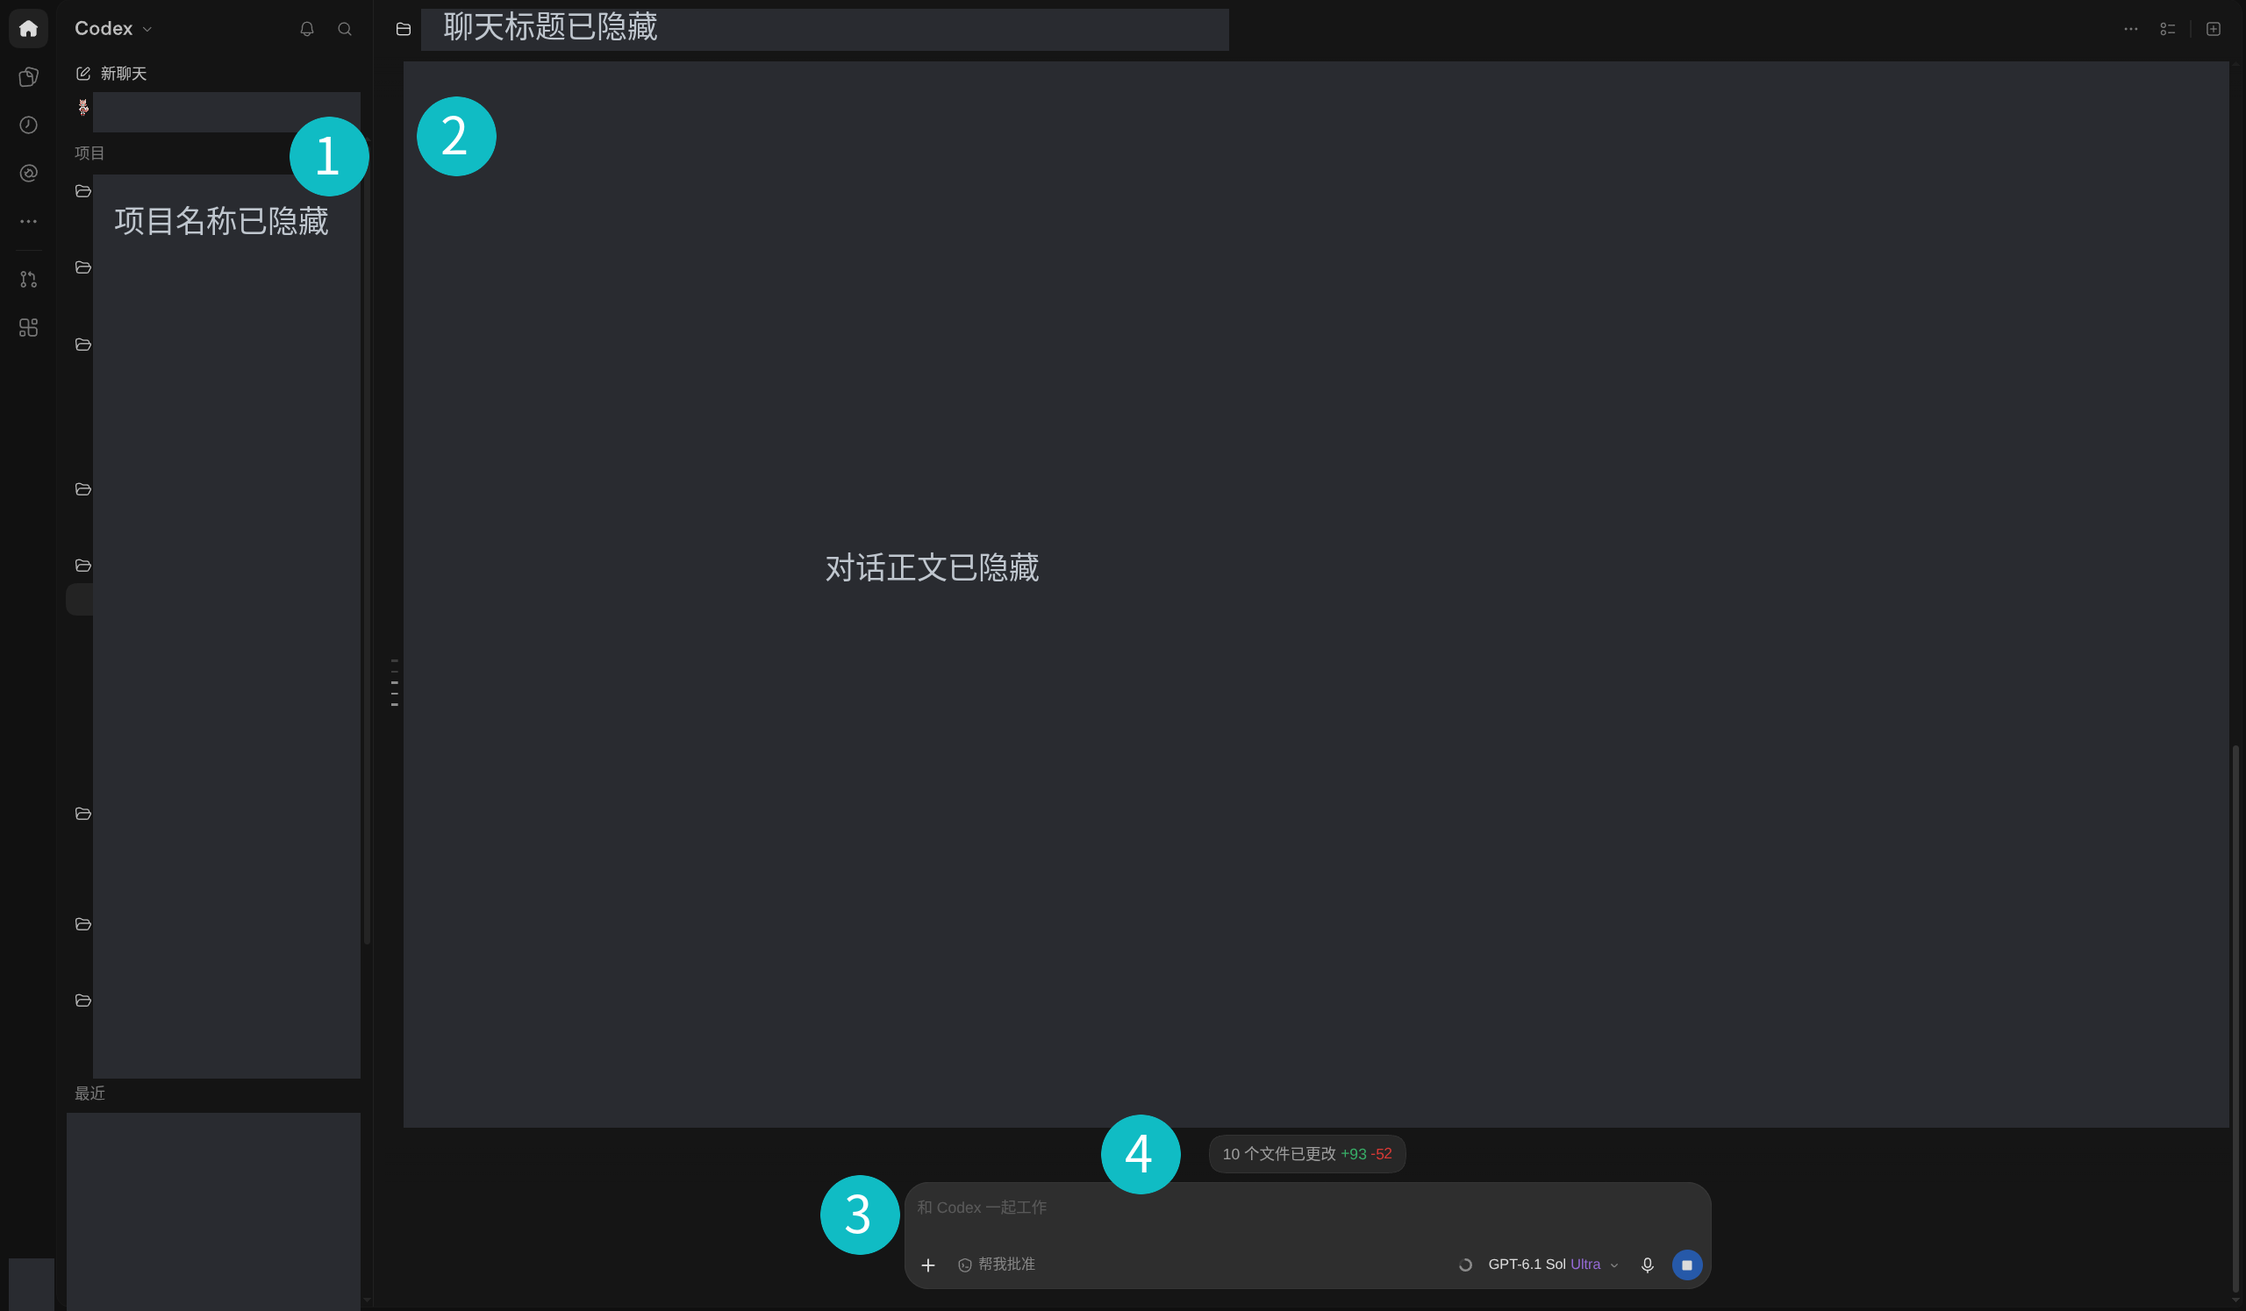
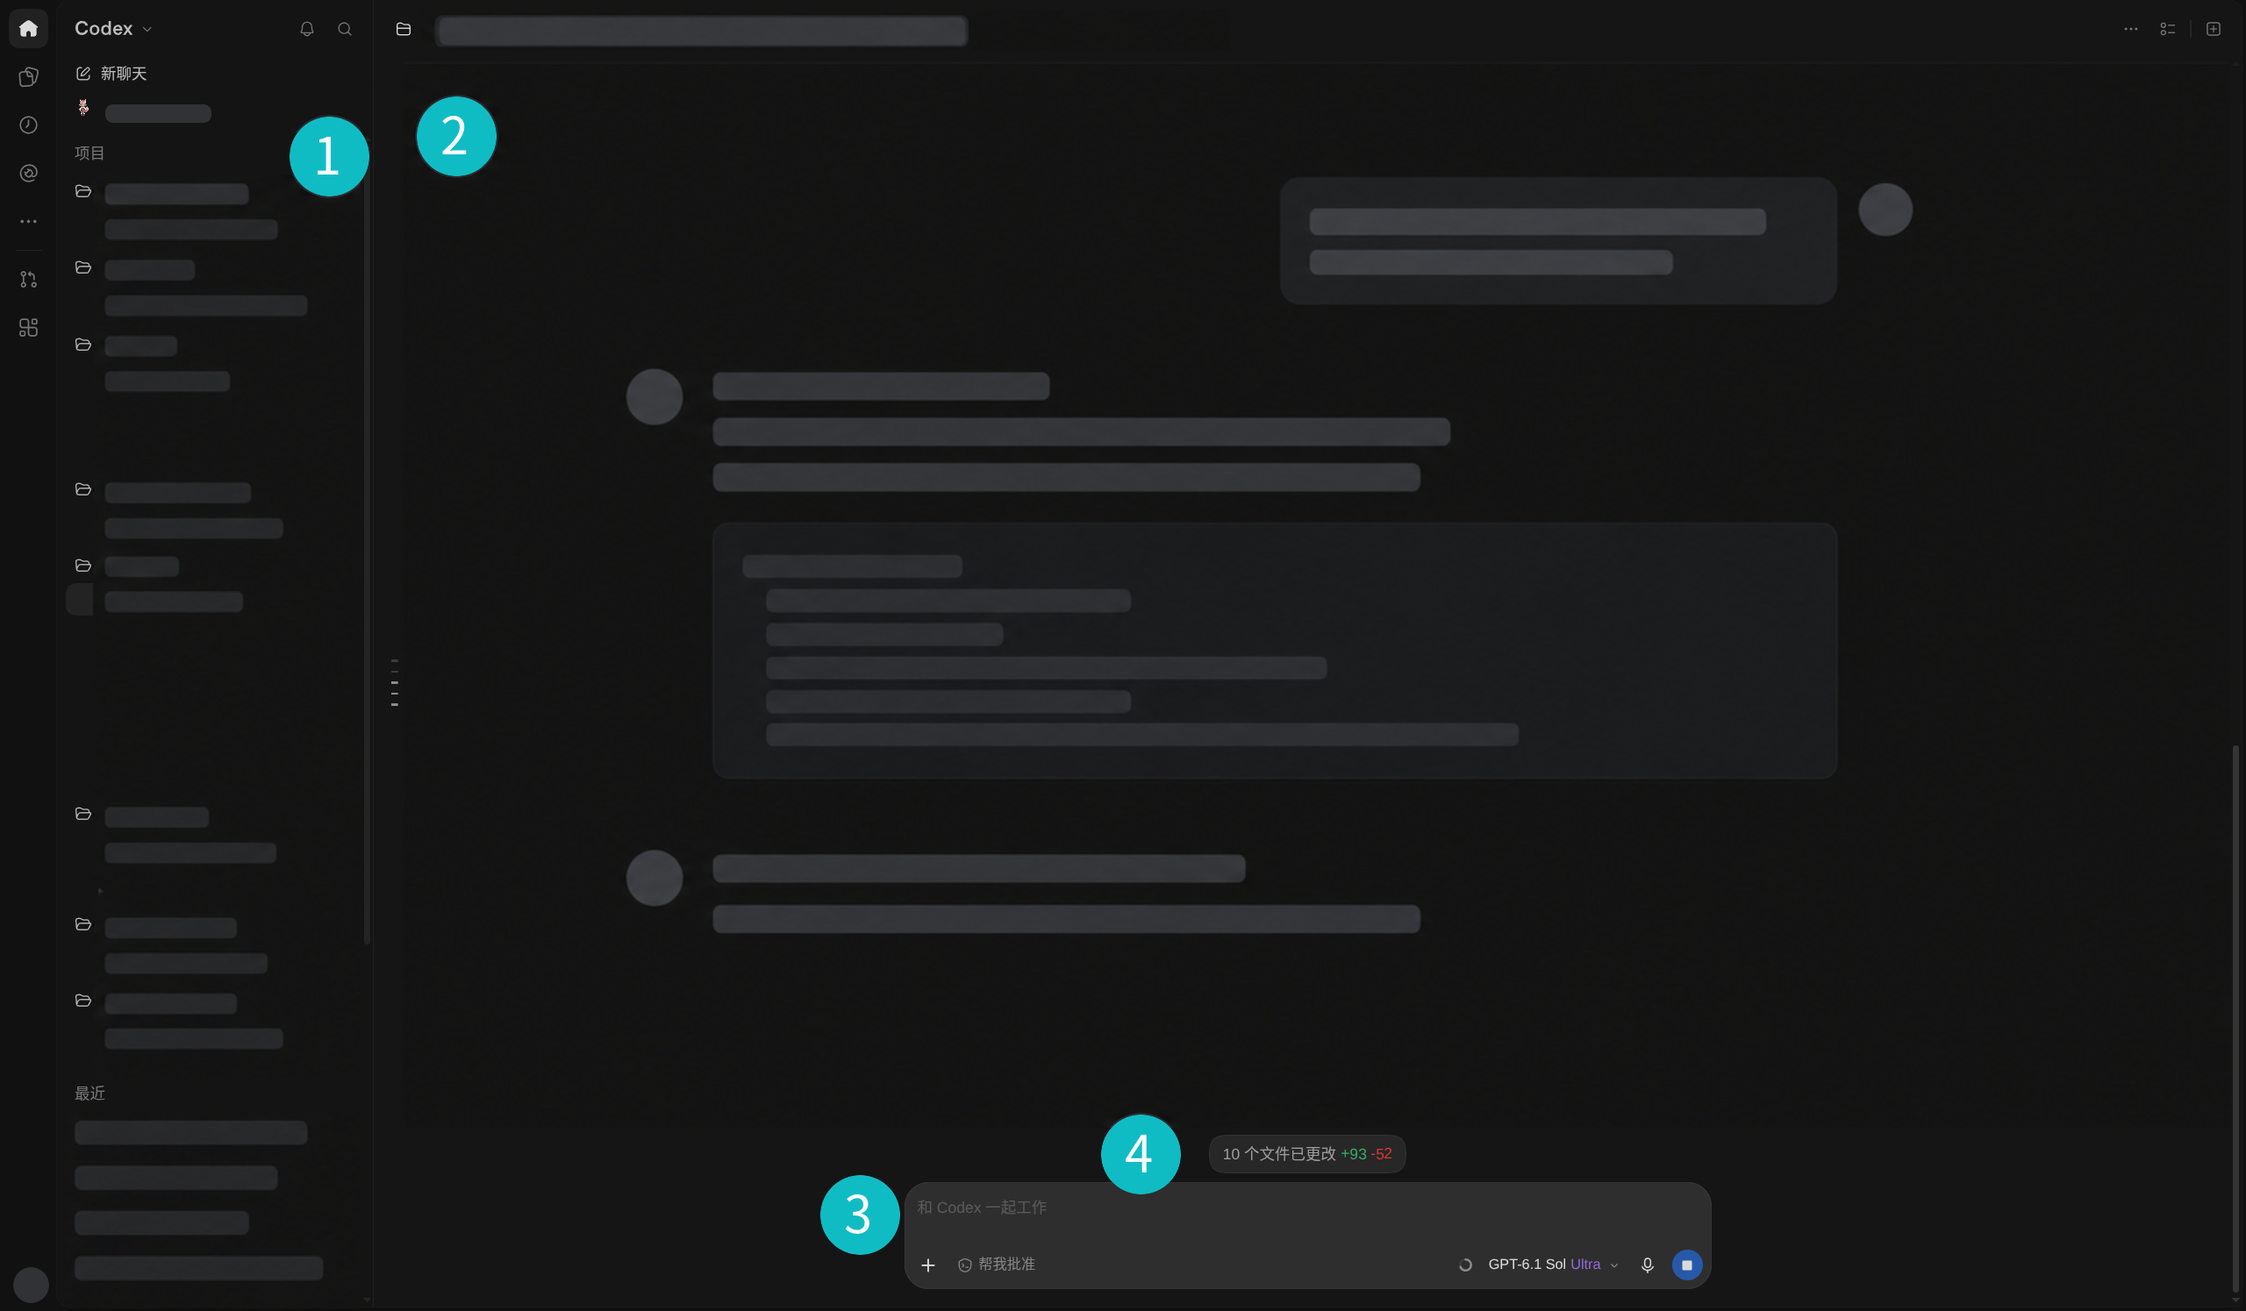
fix: 优化第四章截图骨架脱敏并清理边角残块

diff --git a/docs/revision/volume-1-chapter-4.md b/docs/revision/volume-1-chapter-4.md
@@ -29,7 +29,7 @@
 
 通用化修订的结构、PDF 与视觉检查单列在 [ai-development-generalization-20261031](evidence/ai-development-generalization-20261031/)，初版的页码及 PDF 指纹保留作历史记录。该阶段整卷 256 个物理页，本章位于物理 174–203 页（印刷页 165–194），新增题解位于物理 252–256 页；后续真实截图版以接下来一节及其证据为准。
 
-## 真实截图与脱敏（同日追加）
+## 真实截图与脱敏（同日初版）
 
 按用户要求，添加三张本机真实窗口截图及正文交叉引用：
 
@@ -41,11 +41,25 @@
 
 来源为 2026-10-31 本机 Linux 的 ChatGPT 桌面版 Codex 入口，通过 Niri 的专用窗口截图命令取景。官方文档中若干图片实际是 HTML/CSS 界面示意，本次没有把它们当作真实截图。应用的精确构建号未单独核验，以取景日期及界面为准。
 
-脱敏脚本为 `scripts/prepare_ai_screenshots.sh`，已用本次原图实际生成候选并逐张查看。它要求已核对的原图尺寸，使用不透明遮挡和局部取景，移除元数据、透明通道及隐藏图层；不重绘功能控件。原图仅在临时目录处理，不纳入仓库。三张候选经隐私、图文和清晰度检查后，以 `_revised` 名称入库；[图片说明](../../01-基础通识/images/ai/README.md)记录用途与复用边界。
+初版脱敏脚本为 `scripts/prepare_ai_screenshots.sh`（见提交 `bc7b581`），已用原图实际生成候选并逐张查看。初版要求已核对的原图尺寸，使用不透明遮挡和局部取景，移除元数据、透明通道及隐藏图层；不重绘功能控件。原图仅在临时目录处理，不纳入仓库。三张候选经隐私、图文和清晰度检查后，以 `_revised` 名称入库；当前骨架占位版见下一节，[图片说明](../../01-基础通识/images/ai/README.md)记录现行用途与复用方式。
 
 三图放在 `desktop.tex` 的界面区域、输入区控件、差异面板讲解旁边。前部原理保持通用表述，截图里的 GPT 型号与模式明确标为本机实例，未改回通用型号推荐。实际打开本机差异面板和终端以取景，但终端画面的字形不适合作教材配图，未采用。
 
 截图版重新编译至引用稳定，当前整卷 259 个物理页，本章为物理 174–206 页（印刷页 165–197），新增题解为物理 255–259 页。PNG 指纹、隐私复核及 PDF 视觉检查记录位于 [ai-development-screenshots-20261031](evidence/ai-development-screenshots-20261031/)。临时未脱敏原图已清理；安装、账号、调度、云端和真实设备的原有未实测范围继续保留。
+
+## 骨架占位脱敏（同日修订）
+
+按用户反馈，将主界面与差异面板的实心遮挡改为与深色界面协调的静态骨架占位：
+
+- `desktop-overview_revised.png` 沿用原名：侧栏使用分层圆角占位条，标题使用短条，对话使用消息及代码块形状，头像使用中性圆形；左上 Dot 行与左下头像的矩形残留已清理。
+- `review-pane_revised.png` 沿用原名：文件路径改为低对比度圆角短条，差异范围、计数、代码和行号保留。
+- `composer-controls_revised.png` 不变：它本身只包含真实控件，没有隐私遮挡。
+
+使用内置 imagegen 编辑已经脱敏的 Git 基图，生成占位候选；随后用 `prepare_ai_screenshots.sh` 的坐标蒙版只合入原隐私区，避免整张生图重绘真实界面。蒙版保护四个教学标号；左上行及账号圆形采用匹配背景的确定性整理。最终图保持原尺寸、RGB 展平且无元数据，没有添加示例命令或虚构运行结果。旧版本保留在 Git，不增加备份图片。
+
+脚本现接收两张已脱敏基图、两张生图候选及一个新输出目录，不能直接接收含隐私的原始截图。提示词与验证证据见 [ai-development-skeleton-20261031](evidence/ai-development-skeleton-20261031/)；两图原隐私区以外的变化像素均为 0，四个教学标号、输入区、差异代码及工具栏另行核对一致。图注与相邻正文同步说明骨架条仅用于脱敏，并不表示软件正在加载。整卷编译至引用稳定，仍为 259 页；物理 184–186 页已逐页查看，其余 256 页文本不变。脚本的错误尺寸与已有输出目录保护实际检查通过。
+
+本次只修改配图、对应图文、制图脚本与记录，不改变示例代码、题量或原有验收限制；章节规范仍为 19 项通过、1 项实际流程待补测。
 
 ## 卷首导览同步（同日追加）
 
@@ -107,12 +121,12 @@
 | 11 现场验收 | 通过 | 6 项可演示任务，检查本人解释/操作，不重复自测题 |
 | 12 题解 | 通过 | 33 题完整对应既有 `answers.tex`，开放题有判断依据 |
 | 13 语言与读者 | 通过 | 承接前三章，使用你/我们，解释操作原因与结果；反许愿式编程有具体自检 |
-| 14 图片查看 | 通过 | 三张本机真实截图逐张审查隐私、控件、图文及 PDF 实际尺寸；真实界面色彩保留，教学数字统一青色 |
-| 15 图片标记 | 通过 | 候选核验后以三个 `_revised.png` 名称入库，正文、脚本输出与图片说明对应 |
+| 14 图片查看 | 通过 | 三张截图已审查；本次两张骨架脱敏图及 PDF 实际尺寸复核，原隐私区外像素不变，输入区图未改 |
+| 15 图片标记 | 通过 | 继续沿用三个 `_revised.png` 名称；两图重新整理后复核，正文、脚本输出与图片说明同步 |
 | 16 文件组织 | 通过 | Chapter4 五个主题文件，示例与证据独立；无既有文件移动 |
 | 17 包含与引用 | 通过 | main 接入、目录/小结及卷首导览同步；结构检查，无重复/未定义标签 |
 | 18 源码与排版 | 通过 | 沿用共享层级和环境；新章长表达式移入代码环境，最终渲染检查 |
 | 19 实际运行 | 未完成 | 数值实验、独立边界、worktree、静态 Skill 验证及本机差异/终端面板取景已完成；安装、完整 GUI/账号/调度等流程仍待补测 |
-| 20 编译与 PDF | 通过 | XeLaTeX 编译至引用稳定；截图版目录/新章/小结/题解及本次导览渲染见对应证据目录 `pdf-check.json`，卷二/三共享模板渲染回归一致 |
+| 20 编译与 PDF | 通过 | XeLaTeX 编译至引用稳定；截图、导览与骨架占位版检查见对应 `pdf-check.json`，最新 259 页且物理 184–186 页已查看；卷二/三共享模板回归沿用导览版一致结论 |
 
 截图追加后统计：19 项通过、1 项未完成、0 项不适用。新增章节单独记录，没有降低既有全书硬件验收标准，也未并入 2026-09-29 首次修订的历史统计。

diff --git a/docs/revision/evidence/ai-development-skeleton-20261031/prompts.md b/docs/revision/evidence/ai-development-skeleton-20261031/prompts.md
@@ -1,0 +1,23 @@
+# 骨架占位脱敏：内置 imagegen 提示词
+
+2026-10-31，使用内置 `image_gen.imagegen` 编辑两张已经脱敏的截图，不使用 CLI/API。以下为两次调用的完整提示词，`transparent_background=false`，各调用只附对应的本地图片。生成候选仅在原隐私区通过 ImageMagick 蒙版合入，其他区域保留真实截图像素。
+
+## 主界面
+
+输入：`01-基础通识/images/ai/desktop-overview_revised.png`（Git 基线 `bc7b581`）。
+
+```text
+Use case: precise-object-edit. Edit target: attached 2560x1495 dark Codex desktop screenshot for a Chinese beginner programming textbook. This is a privacy-redaction aesthetic correction. Keep canvas dimensions/aspect ratio, original application layout, every unmasked real control/icon/label/model selector, the composer and file changes chip, and cyan numbered circles 1,2,3,4 exactly in their original locations. Change ONLY the crude gray opaque privacy rectangles and their Chinese redaction captions. Remove those captions. Replace masked surfaces with background that seamlessly matches the app's near-black #141414 theme, and render tasteful static SKELETON LOADING PLACEHOLDERS over the hidden content: low contrast charcoal rounded bars in varied lengths, radii 6-10px, clean spacing, subtle gray-to-charcoal horizontal sheen, no glow. The title is a short single rounded skeleton bar. The sidebar has individual short skeleton bars aligned with the existing folder icons and nested chat positions, with comfortable vertical gaps; keep its actual icons and section labels. The large conversation redaction should be replaced with 2-3 beautifully spaced skeleton message groups in a centered normal-width conversation column (roughly x1020-1950), including a right-aligned user bubble with 2 placeholder lines, a left-aligned assistant reply with 3 placeholder lines and a compact code-shaped skeleton panel, then another short reply below. Replace the masked account corner with a small neutral circular avatar skeleton. Do not add any literal example text, gibberish, text saying hidden/loading, invented buttons, fake commands, fake status results, logos, borders around the former mask, or a giant empty gray panel. Invariants: all non-private real screenshot pixels should be preserved as faithfully as possible, especially the bottom composer controls and readable original Chinese UI labels. Cyan instructional numbers remain unchanged. Result should look like a polished privacy-sanitized screenshot, not a redesigned app. Opaque flattened RGB, no private information can be reconstructed.
+```
+
+## 差异面板
+
+输入：`01-基础通识/images/ai/review-pane_revised.png`（同一基线）。
+
+```text
+Use case: precise-object-edit. Input image: edit target, a real dark-mode Git diff screenshot used in a Chinese programming textbook. Make a very narrow privacy-redaction aesthetic correction. Change ONLY the opaque gray file-path strip and the text 文件路径已隐藏, in the header at approximately x48..865, y131..166 of the original 1070x860 image. Remove that rectangle and its caption, match its background seamlessly to the surrounding near-black #141414 header, and put in its place ONE subtle rounded skeleton placeholder bar of about 280x13 pixels at x64,y143, with a very low-contrast charcoal gradient, radius 6px. It is an intentional static privacy placeholder. Keep the real file icon immediately to its left. Preserve EVERYTHING ELSE exactly, including the original canvas aspect ratio, tab 变更, range 未暂存, all Git counts, every toolbar icon, the +54 -0 count, the green diff background, every original code character and line number. Do not generate replacement filenames, arbitrary text, extra bars or UI. Do not redesign or recolor the app. The skeleton is quiet and integrated, not black censorship tape. Only the path is private; all original code and controls are instructional evidence and must remain untouched.
+```
+
+## 最终合成
+
+生成的主图为 1641×958，差异图为 1399×1124；脚本先对齐基图尺寸，再仅合入已知隐私区。四个青色标号由蒙版保护，输入区、代码与工具栏始终来自原图。用户指出的左上 Dot 行与左下头像残留在蒙版内以同主题背景、圆角短条及圆形占位整理，最后重新核对全部保护区域。生成候选不作为整张软件截图使用。

diff --git a/01-基础通识/images/ai/README.md b/01-基础通识/images/ai/README.md
@@ -1,19 +1,25 @@
 # AI 开发章的真实截图与脱敏
 
-三张图片均来自 2026-10-31 本机 Linux 上运行的 ChatGPT 桌面版 Codex 入口，通过 Niri 的窗口截图命令获取。没有采用官方 HTML/CSS 重绘示意图，也没有生成或重绘软件控件。桌面应用的精确构建号未单独确认，以截图日期与实际界面为准。
+三张图片均以 2026-10-31 本机 Linux 上运行的 ChatGPT 桌面版 Codex 入口的真实窗口截图为基础，通过 Niri 的窗口截图命令获取。主界面与差异面板的隐私区域使用骨架占位处理，真实软件控件和代码保留原像素。桌面应用的精确构建号未单独确认，以截图日期与实际界面为准。
 
 | 文件 | 教学用途 | 隐私处理 |
 | --- | --- | --- |
-| `desktop-overview_revised.png` | 侧栏、对话、输入与改动入口的区域导览 | 项目及聊天名、标题、对话正文、账号头像以实心块覆盖；添加 1–4 数字标注 |
+| `desktop-overview_revised.png` | 侧栏、对话、输入与改动入口的区域导览 | 项目/聊天名、标题和正文改为圆角骨架条、消息占位；头像为中性圆形；保留 1–4 数字标注 |
 | `composer-controls_revised.png` | 输入区、权限、模型/模式与停止控件 | 只取输入区和改动入口，没有侧栏、对话或账号信息 |
-| `review-pane_revised.png` | 未暂存范围、文件头、行号与新增内容 | 只取差异区域，遮挡相对文件路径；代码是本教材新增正文 |
+| `review-pane_revised.png` | 未暂存范围、文件头、行号与新增内容 | 文件路径改为低对比度圆角骨架条；真实代码、行号和计数不变 |
 
-原始截图仅在 `/tmp` 中处理，没有放进仓库。入库 PNG 已去除元数据、关闭透明通道并展平，不包含隐藏的原图图层。遮挡仅处理身份及项目内容，功能按钮、状态和代码画面不作改写。图注明确说明脱敏、局部取景和教材数字标注。
+原始截图未放进仓库。本次以 Git 中已经脱敏的图片为输入，使用内置 imagegen 编辑候选，再通过坐标蒙版仅合入原隐私区。生成候选在合成时对齐原尺寸；未直接采用整张生图，避免重绘控件和代码。原隐私区以外的像素逐一比较不变，四个教学标号、输入区、差异代码与工具栏另行核验。没有添加虚构的命令、运行结果或无意义文字。
+
+占位用于保护隐私，不表示真实加载状态；图注和相邻正文已说明。入库 PNG 去除元数据、关闭透明通道并展平，不包含隐藏图层。旧实心遮挡版保留在 Git 提交 `bc7b581`，不在源码目录添加备份。
 
 生成脚本：[prepare_ai_screenshots.sh](../../../scripts/prepare_ai_screenshots.sh)。调用形式：
 
 ```bash
-bash scripts/prepare_ai_screenshots.sh 主界面原图.png 差异面板原图.png 尚不存在的输出目录
+bash scripts/prepare_ai_screenshots.sh \
+  已脱敏主图.png 已脱敏差异图.png \
+  主图生图候选.png 差异生图候选.png 尚不存在的输出目录
 ```
 
-脚本限定本次核对过的 2560×1550 原图尺寸，防止套用坐标时错位；相同尺寸也不代表其他截图可以直接套用，必须重新逐张检查内容和遮挡范围。候选图先人工检查，再放入本目录并使用 `_revised` 标记。原始窗口大小、主题与字形保持实际状态，教材以截图和步骤互相补充。
+脚本只接受已经脱敏、已经裁剪的 2560×1495 主图与 1070×860 差异图，不能用于原始含隐私的截图。相同尺寸也不代表其他布局可直接套用，仍须逐张核对。脚本输出两张候选；输入区局部图没有隐私遮挡，本次不变。最终沿用 `_revised` 文件名，不重复追加标记。
+
+生图提示词、生成与局部合成方式、像素及 PDF 检查记录见 [本次证据](../../../docs/revision/evidence/ai-development-skeleton-20261031/)。
